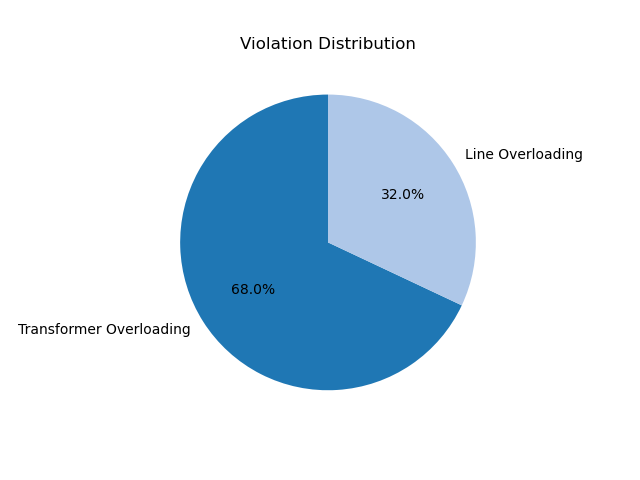
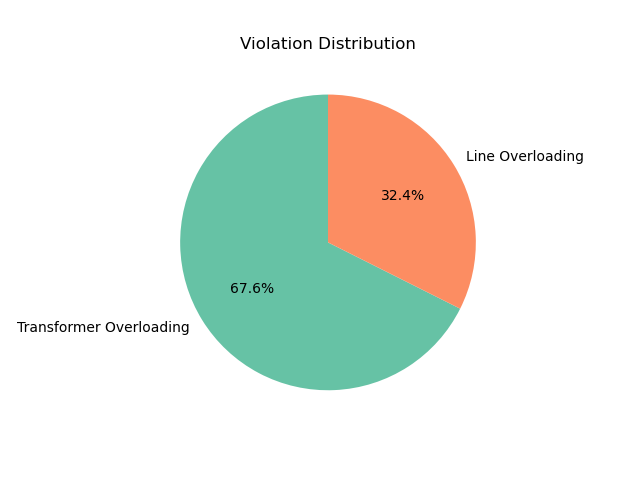
made change to coloring of violation type distribution in case of ev mode to be consistent with pv mode

Changed region(s): [[0.0312, 0.1875, 0.9375, 0.8125]]

diff --git a/blind_hc_stoch.py b/blind_hc_stoch.py
@@ -243,10 +243,7 @@ PV_hc, EV_hc = calculate_analytic_hc(generation, step_size, max_voltage, min_vol
 
 x = results["reason"].value_counts()
 labels = results["reason"].value_counts().index
-if generation:
-    colors = matplotlib.color_sequences['Set2']
-else:
-    colors = matplotlib.color_sequences['tab20']
+colors = matplotlib.color_sequences['Set2']
 
 fig, ax = plt.subplots()
 ax.pie(x, labels=labels, autopct='%1.1f%%', colors=colors, startangle=90)